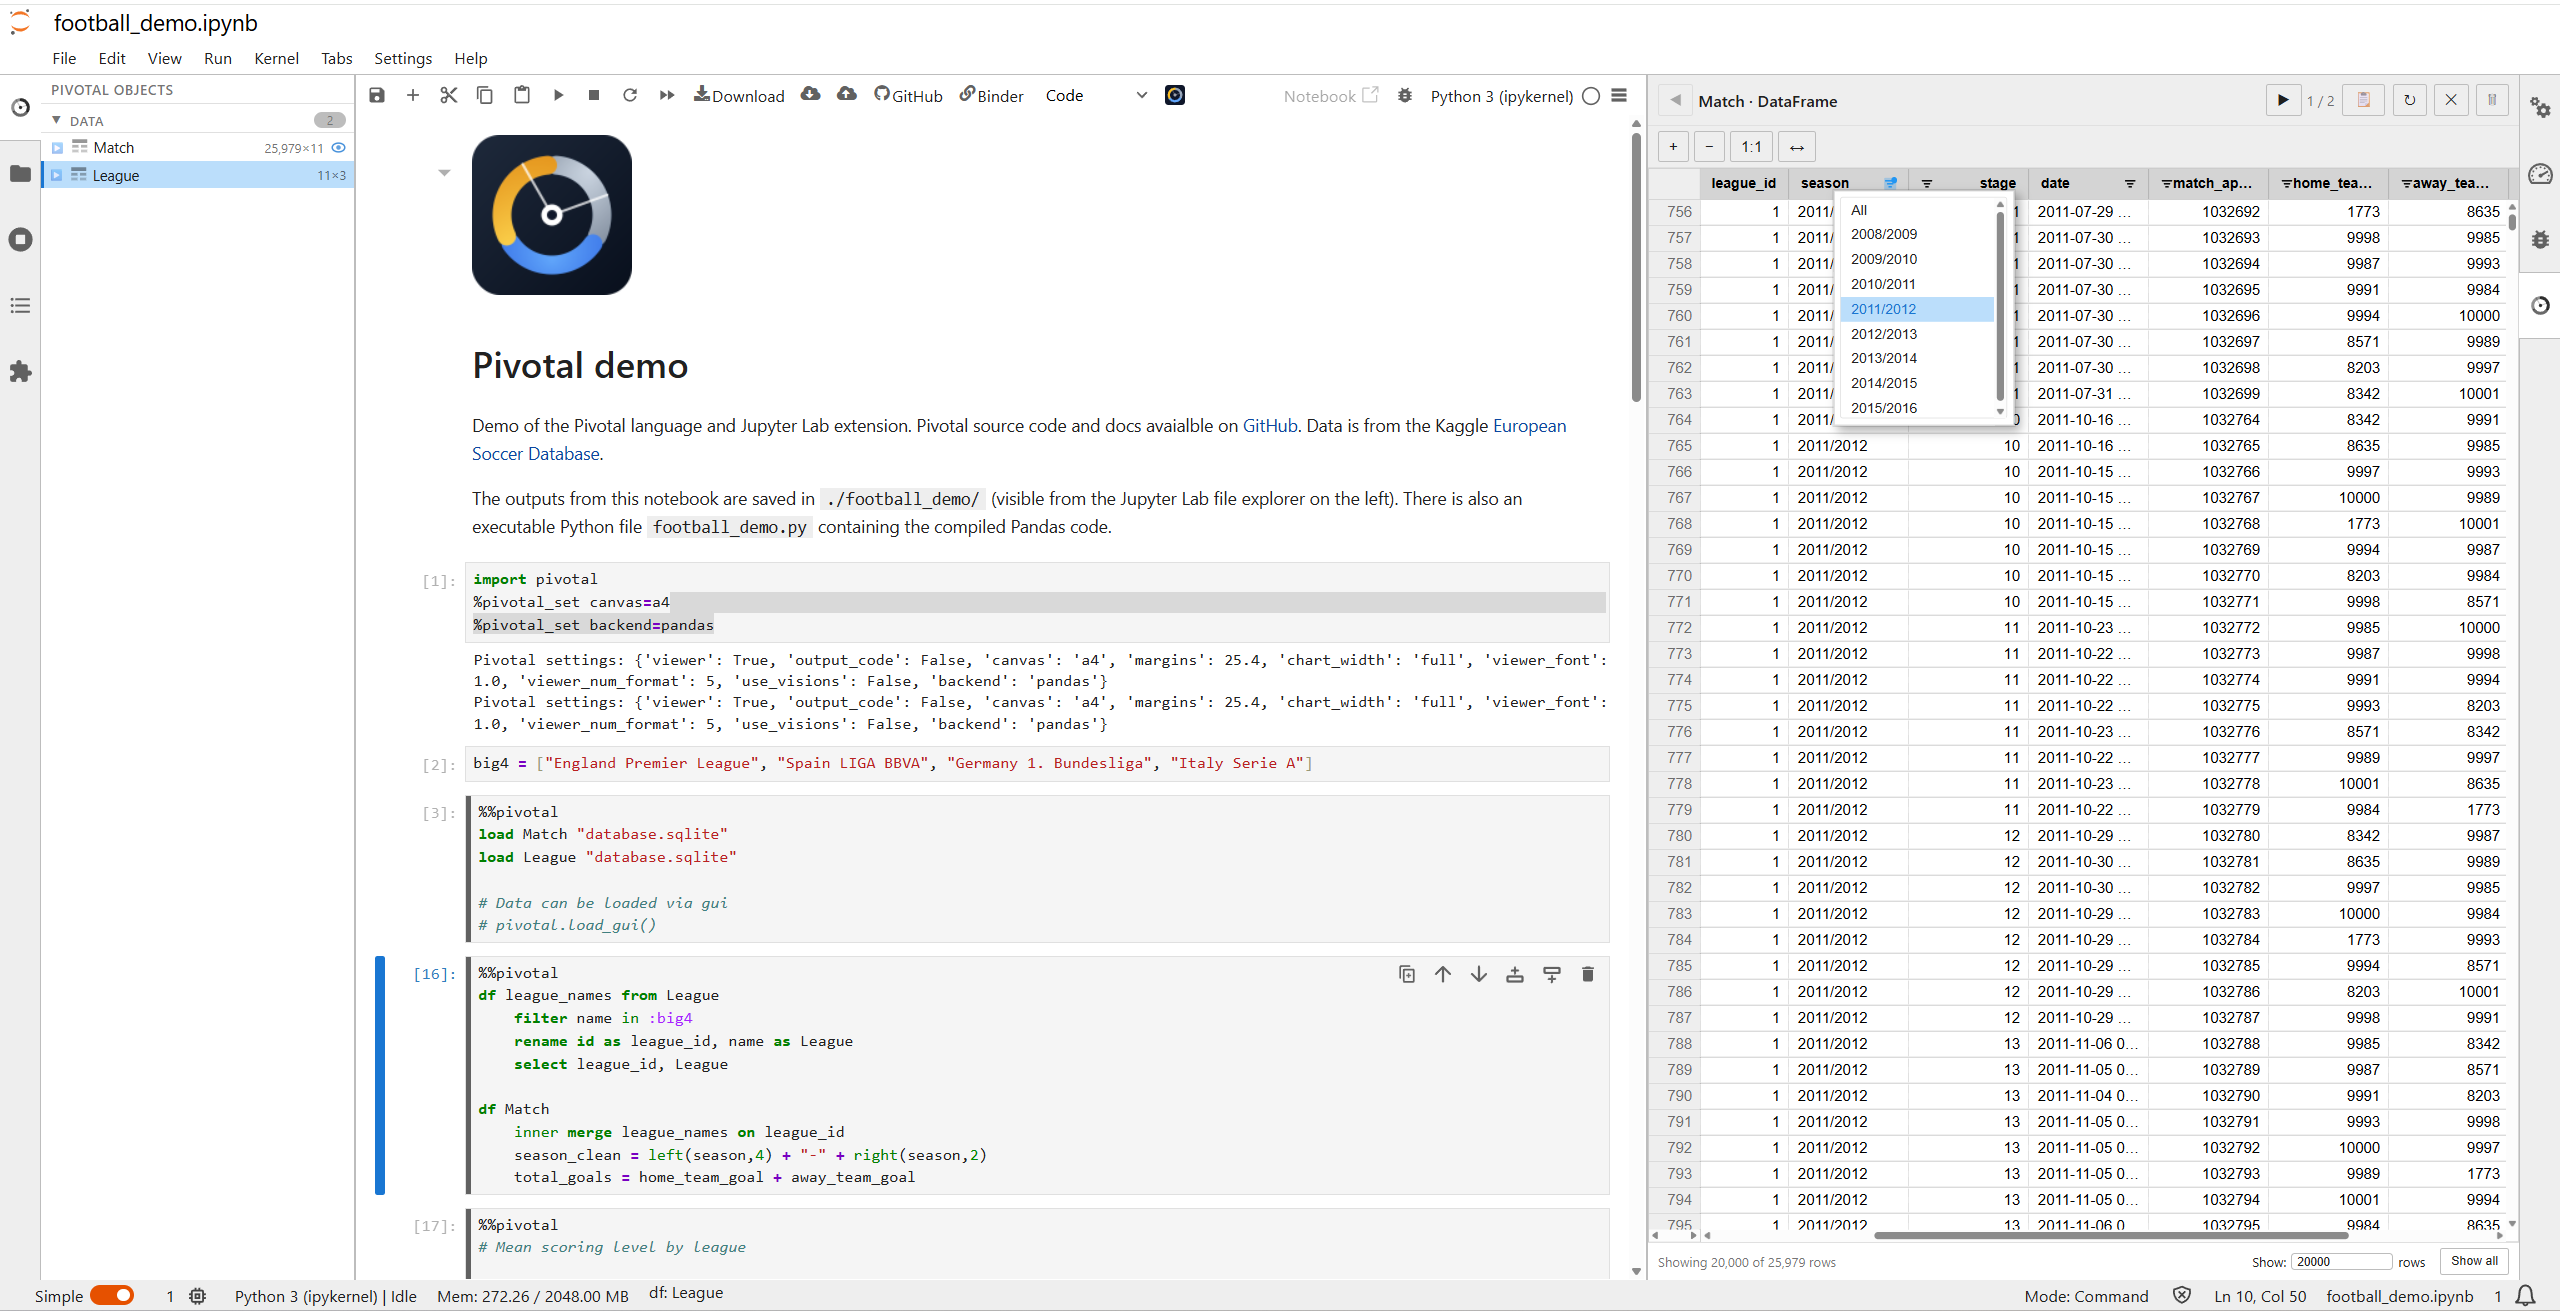
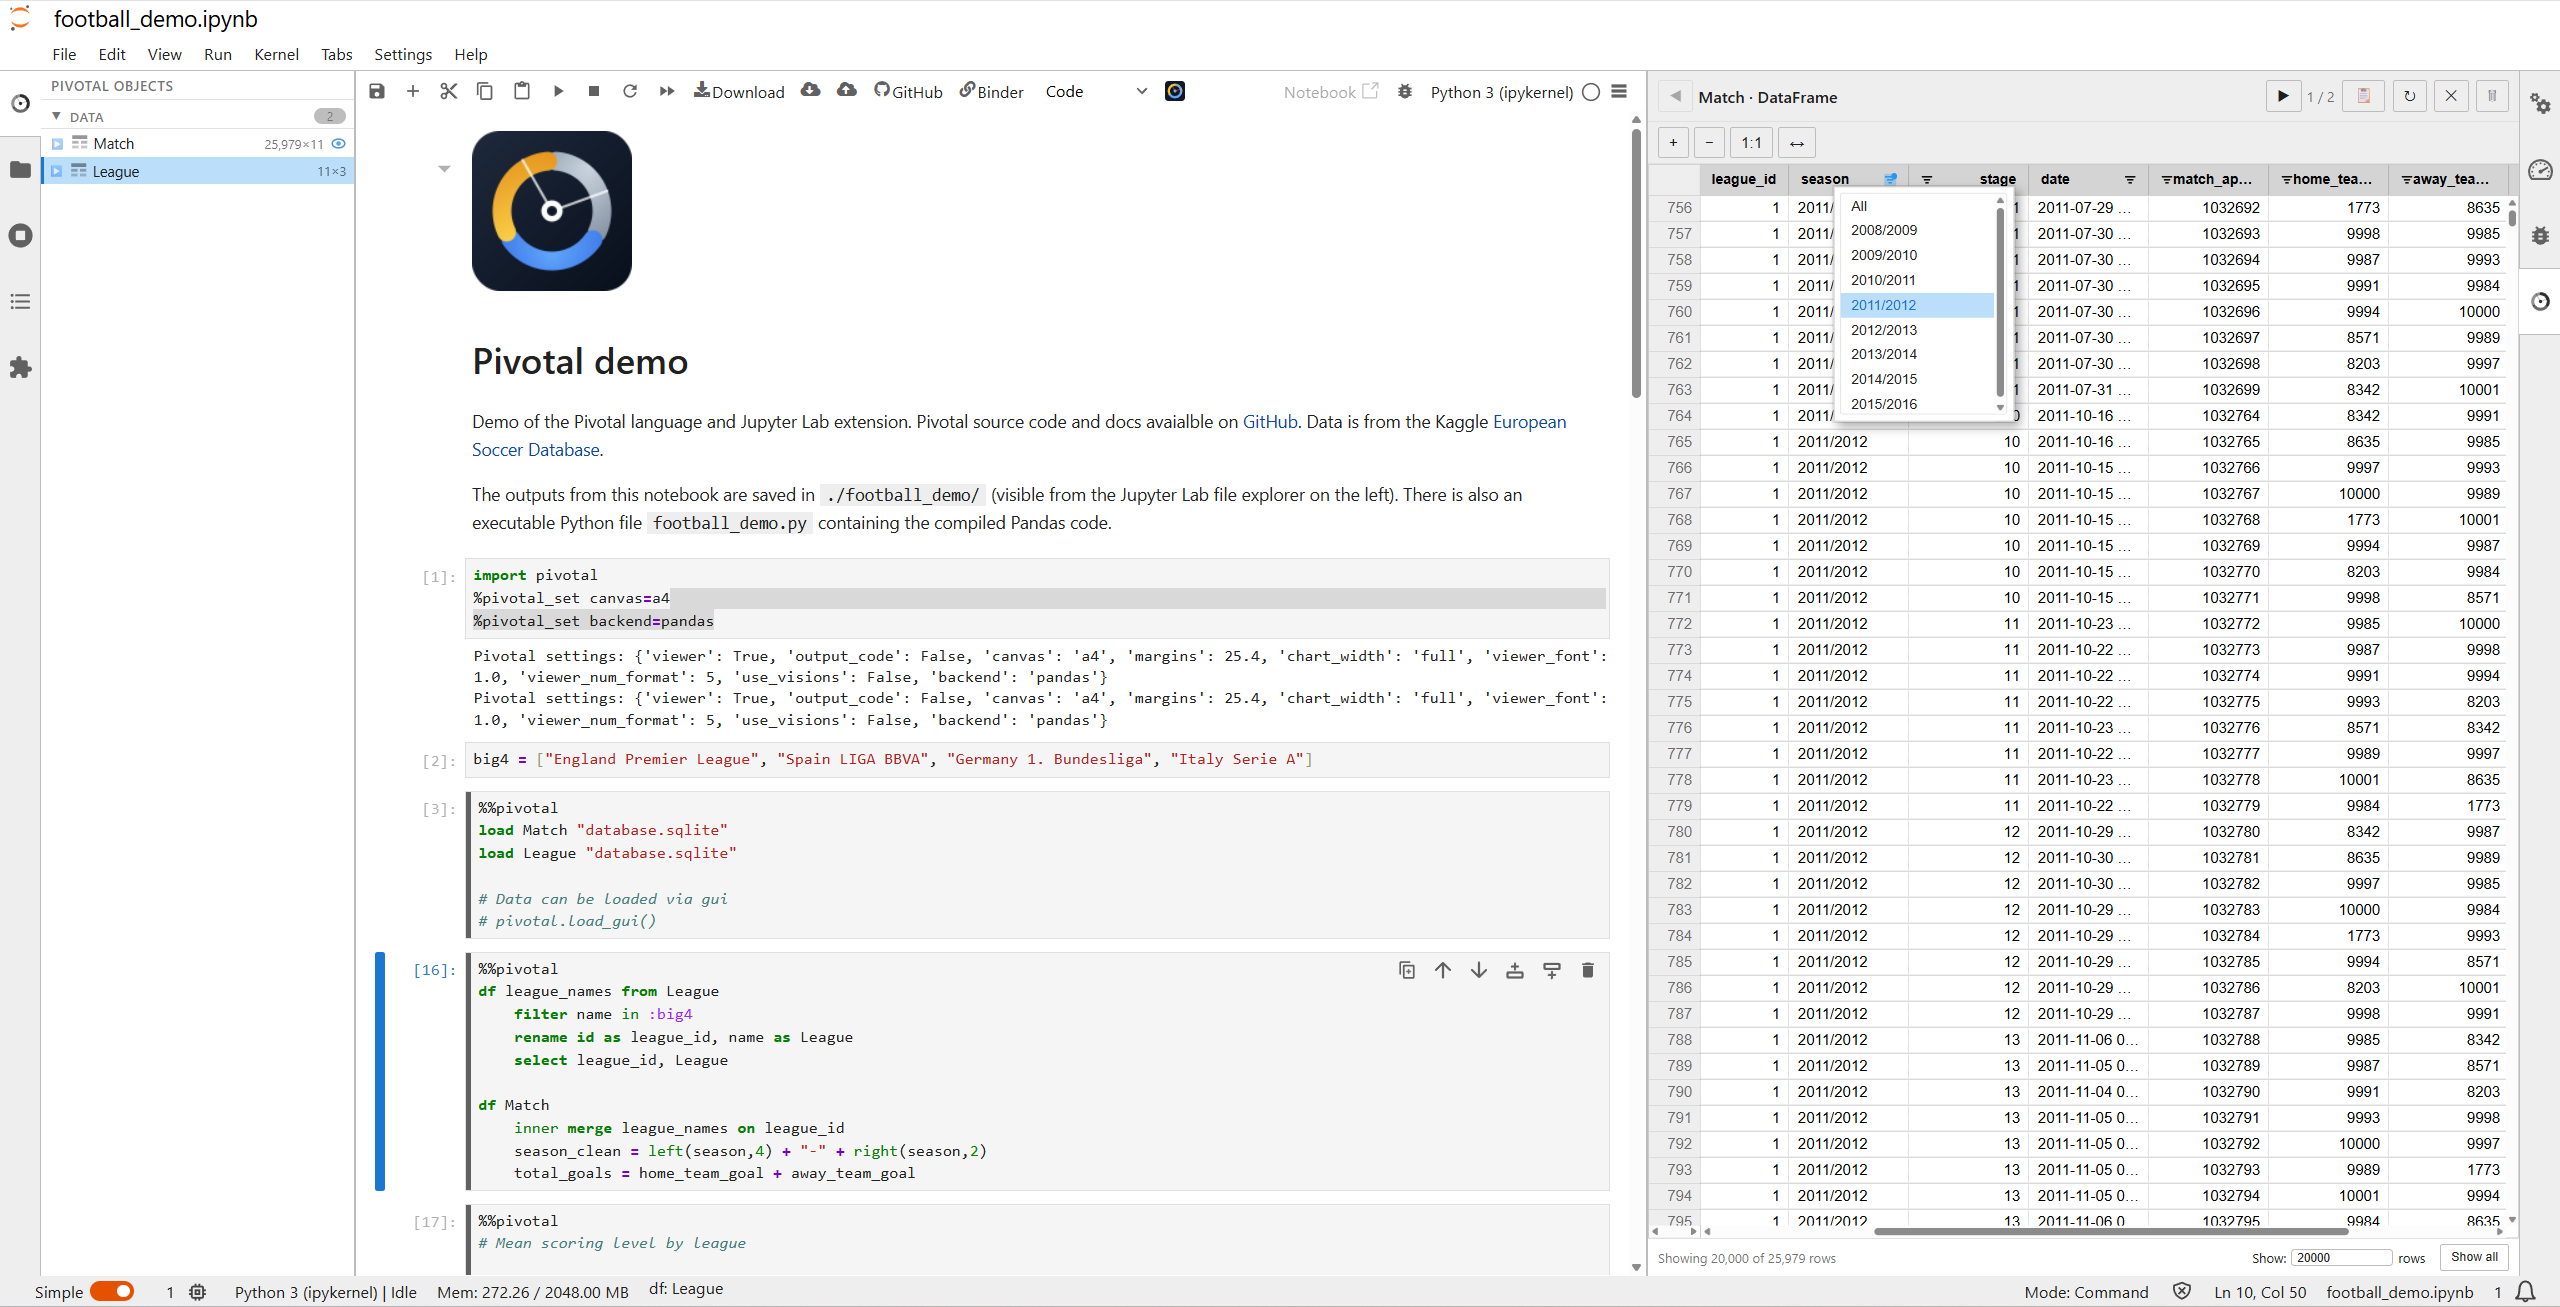
pic

diff --git a/docs/index.md b/docs/index.md
@@ -24,6 +24,8 @@ save "my_analysis"
     path "~/projects/output"
 ```
 
+A live-demo of [Pivotal in Jupyter Lab](https://mybinder.org/v2/gh/nealbob/pivotal-demo/HEAD?urlpath=%2Fdoc%2Ftree%2Ffootball_demo.ipynb) is available via Binder:
+
 [![JupyterLab demo](assets/piv2.png)](https://mybinder.org/v2/gh/nealbob/pivotal-demo/HEAD?urlpath=%2Fdoc%2Ftree%2Ffootball_demo.ipynb)
 
 ## Key features
